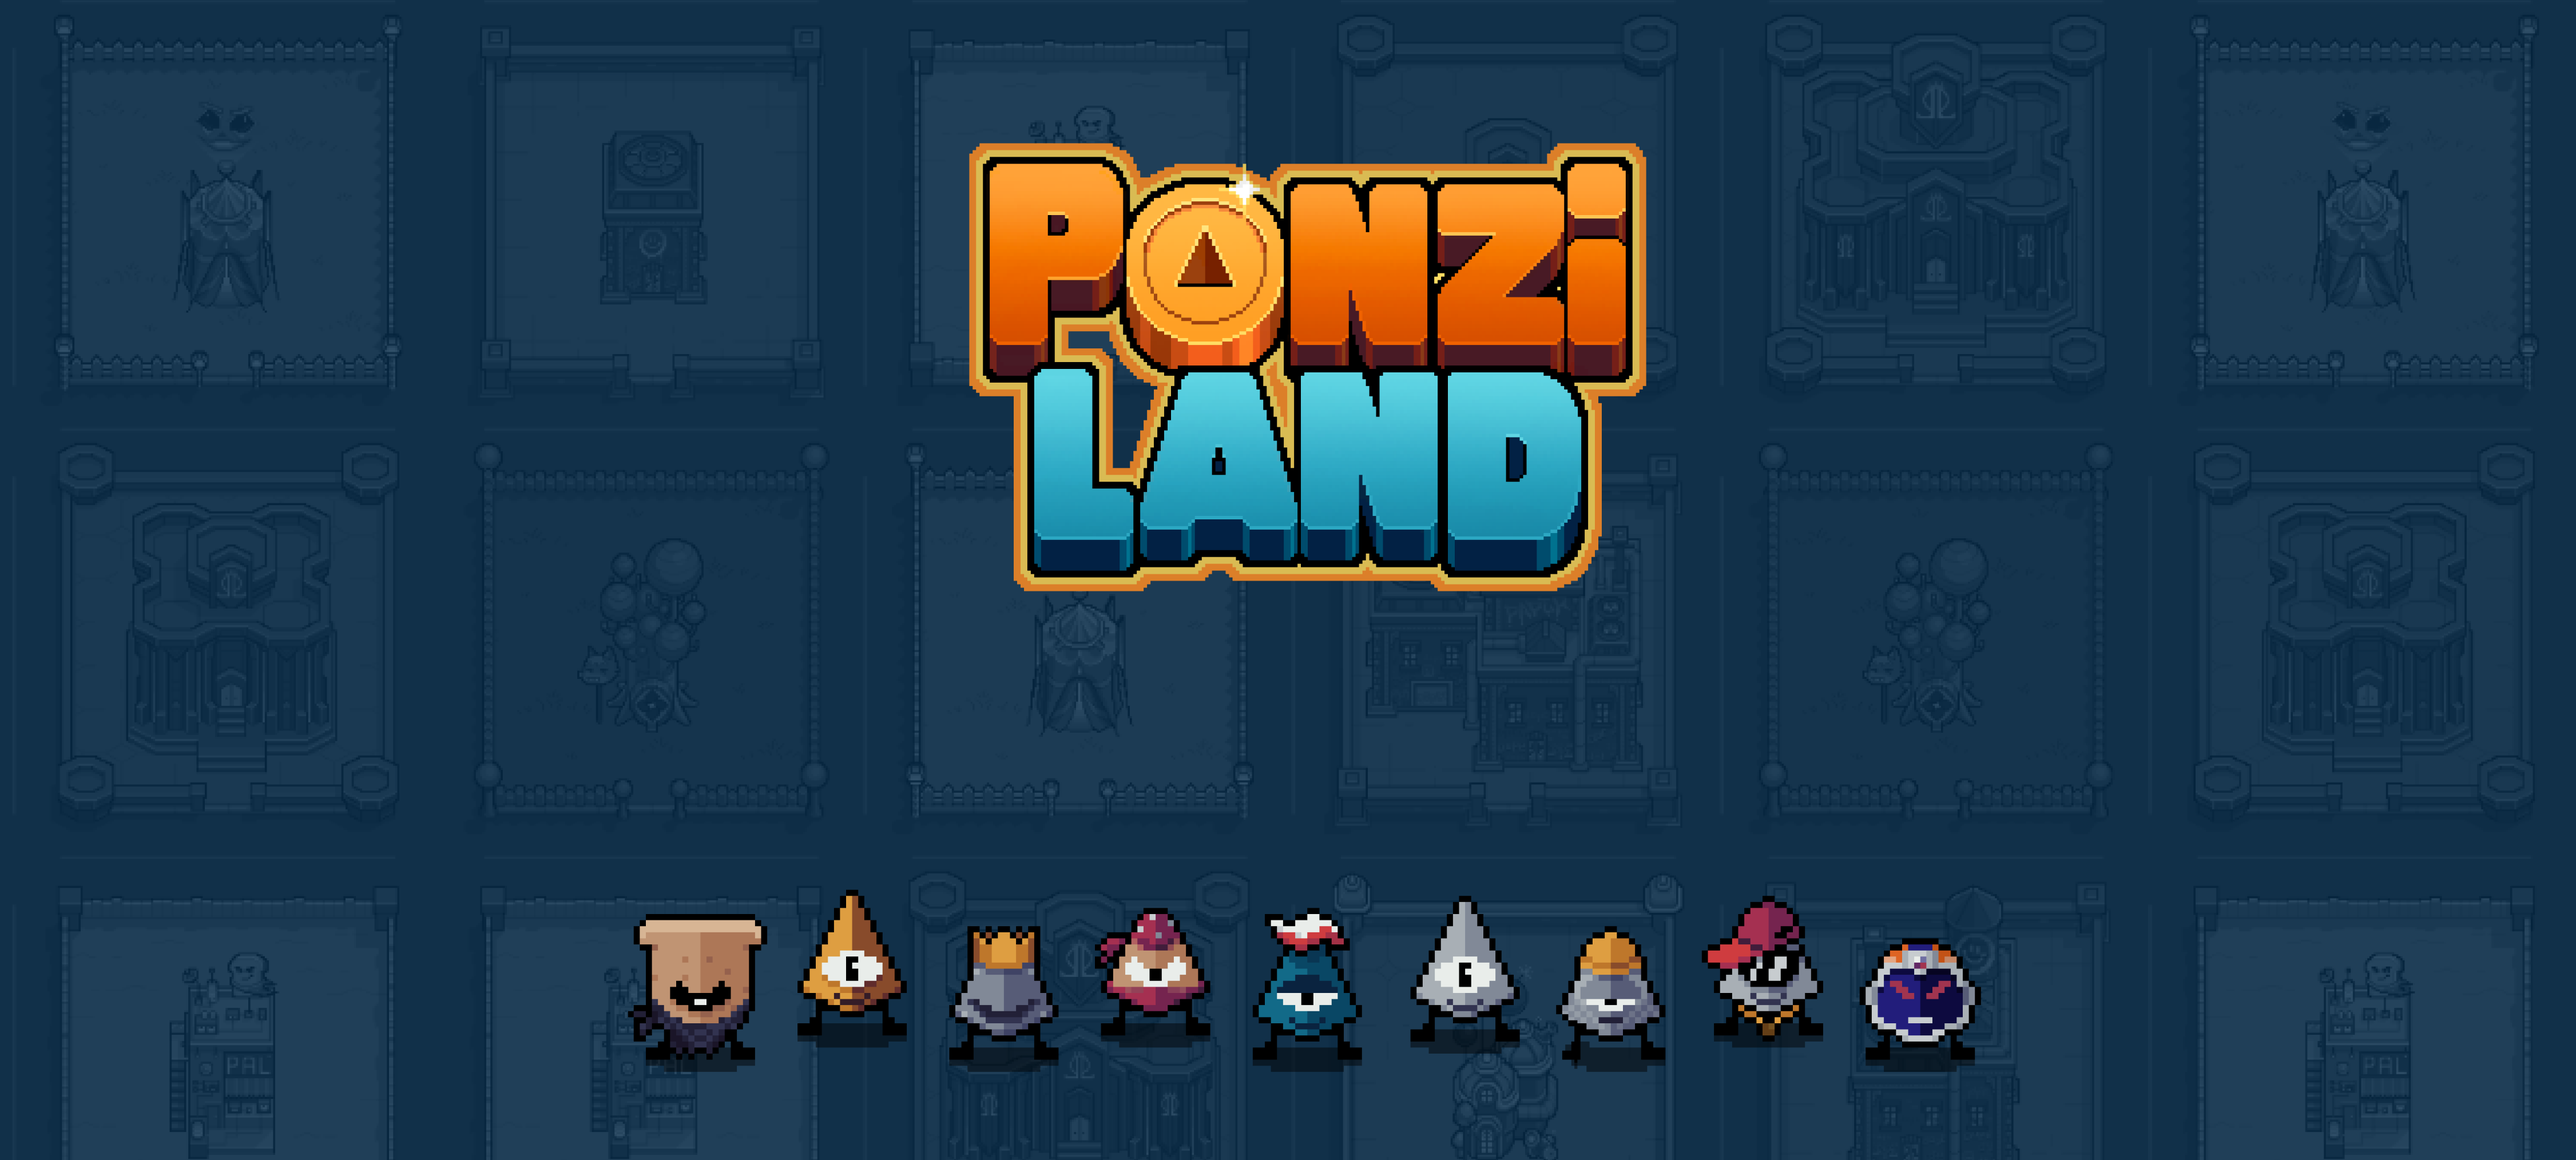
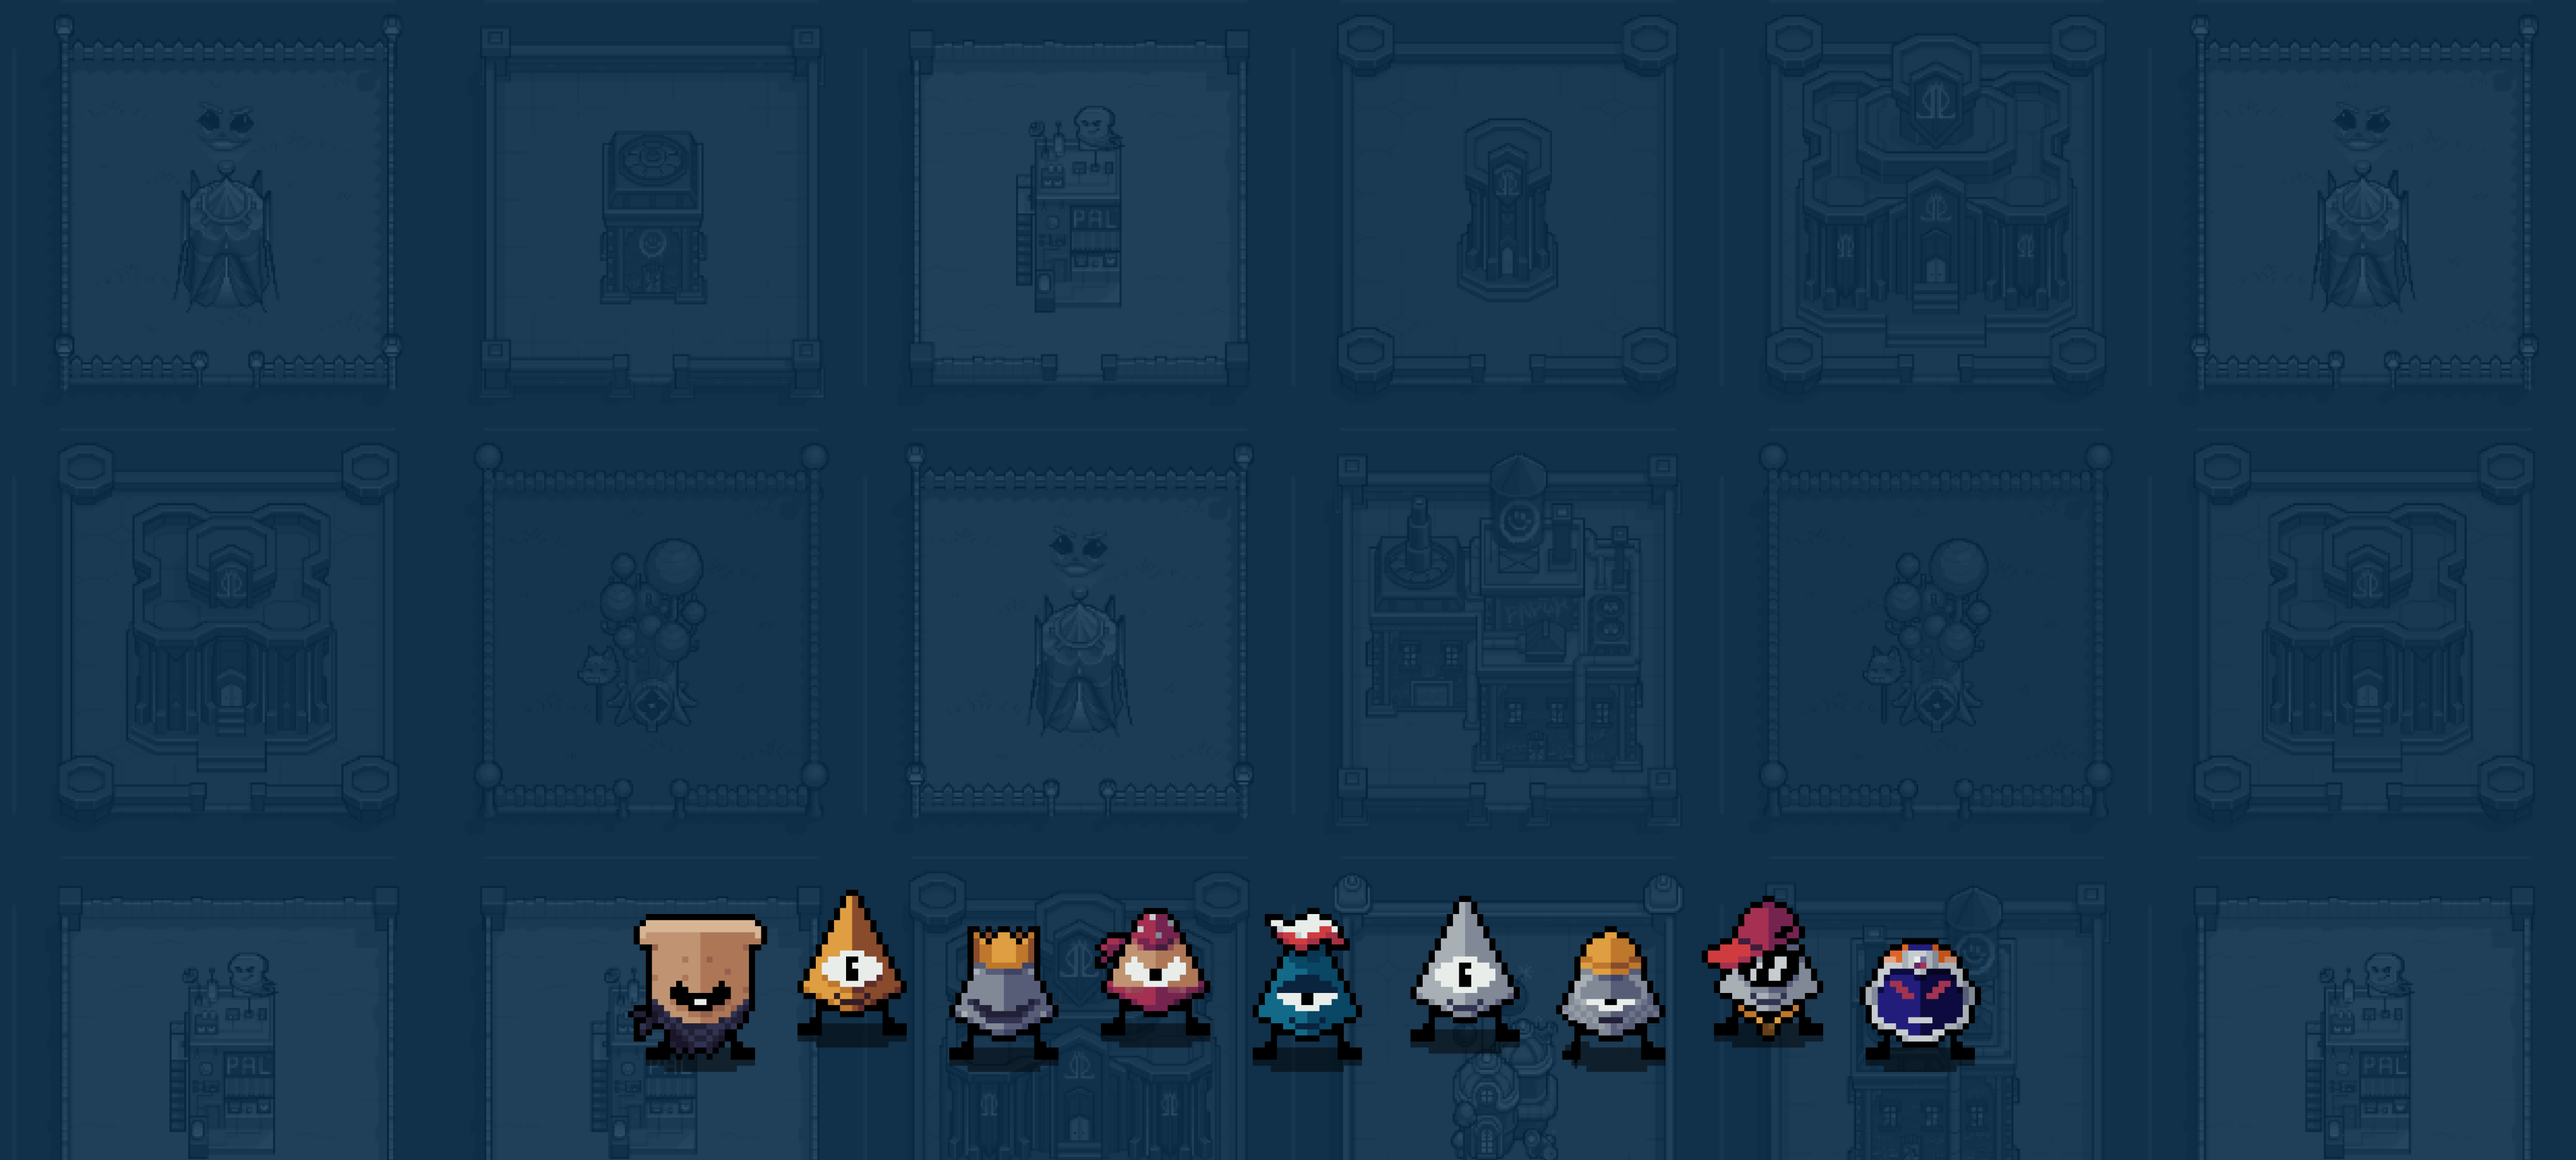
feat: added reponsive

Changed region(s): [[0.3731, 0.1243, 0.6529, 0.5281]]

diff --git a/src/pages/index.tsx b/src/pages/index.tsx
@@ -19,12 +19,33 @@ function HomepageHeader() {
       alignItems: 'flex-end',
       imageRendering: 'pixelated'
     }}>
-      <div className="container" style={{ marginBottom: '18vh' }}>
-        <p className={clsx("hero__subtitle", styles.customFont)} style={{fontSize: '2rem', color: 'white'}}>{siteConfig.tagline}</p>
+      <div style={{
+        position: 'absolute',
+        top: '30%',
+        left: '50%',
+        transform: 'translate(-50%, -50%)',
+        width: 'min(80vw, 600px)',
+        height: 'auto',
+        imageRendering: 'pixelated'
+      }}>
+        <img src="/img/ponziland.png" alt="Ponzi Land Logo" style={{
+          width: '100%',
+          height: 'auto'
+        }} />
+      </div>
+      <div className={clsx("container", styles.container)}>
+        <p className={clsx("hero__subtitle", styles.customFont, styles.heroSubtitle)} style={{
+          fontSize: 'clamp(1rem, 4vw, 1.5rem)'
+        }}>
+          {siteConfig.tagline}
+        </p>
         <div className={styles.buttons}>
           <Link
-            className={clsx("button button--secondary button--lg", styles.customFont)}
-            to="/docs/intro">
+            className={clsx(styles.customFont, styles.ctaButton)}
+            to="/docs/intro"
+            style={{
+              fontSize: 'clamp(0.8rem, 3vw, 1.2rem)'
+            }}>
             Tutorial - 5min ⏱
           </Link>
         </div>

diff --git a/src/pages/index.module.css b/src/pages/index.module.css
@@ -33,3 +33,75 @@
   font-style: normal;
   font-display: swap;
 }
+
+.container {
+  margin-bottom: 18vh;
+}
+
+.containerMobile {
+  margin-bottom: 10rem;
+}
+
+@media (max-width: 768px) {
+  .container {
+    margin-bottom: 10rem;
+  }
+}
+
+.heroSubtitle {
+  font-size: 2rem;
+  color: white;
+}
+
+@media (max-width: 768px) {
+  .heroSubtitle {
+    font-size: 2rem;
+  }
+}
+
+@media (max-width: 480px) {
+  .heroSubtitle {
+    font-size: 1.6rem;
+  }
+}
+
+.ctaButton {
+  composes: button button--secondary button--lg from global;
+}
+
+@media (max-width: 768px) {
+  .ctaButton {
+    font-size: 1.4rem;
+    padding: 0.8rem 1.5rem;
+  }
+}
+
+.bottomContainer {
+  margin-bottom: 10vh;
+}
+
+@media (max-width: 768px) {
+  .bottomContainer {
+    margin-bottom: 5vh;
+  }
+}
+
+.subtitle {
+  font-size: 1.5rem;
+}
+
+@media (max-width: 768px) {
+  .subtitle {
+    font-size: 1rem;
+  }
+}
+
+.tutorialButton {
+  font-size: 1.2rem;
+}
+
+@media (max-width: 768px) {
+  .tutorialButton {
+    font-size: 0.9rem;
+  }
+}
